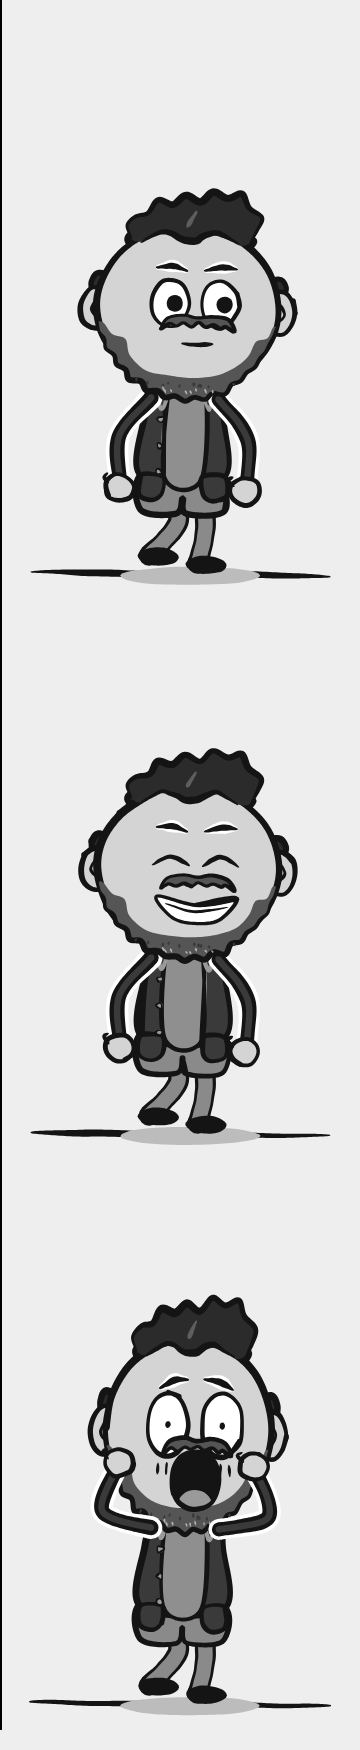
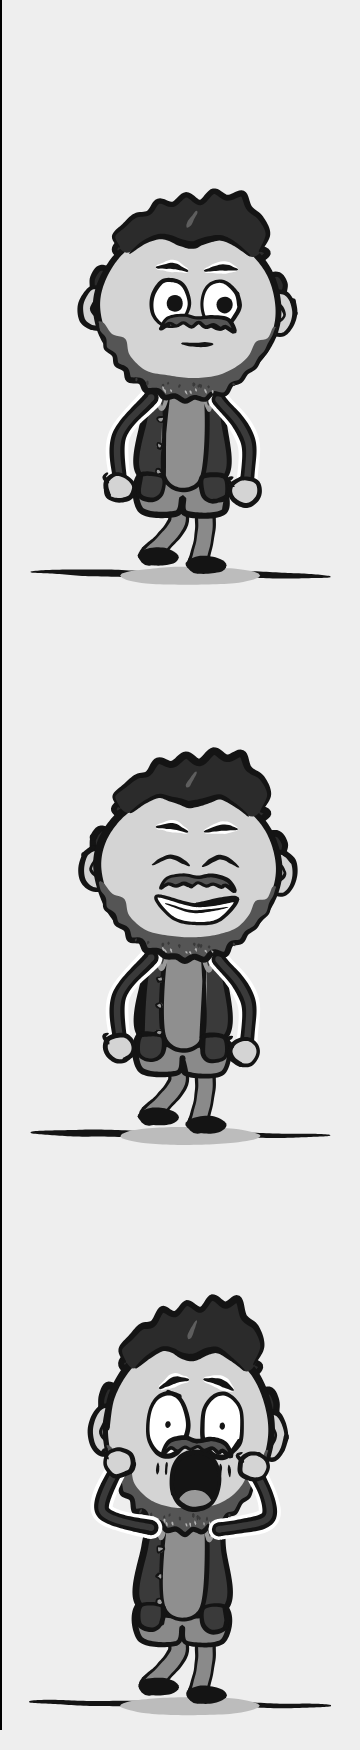
Squeex C: hairline between the last two versions
Wider crown so it no longer reads as a mohawk, smaller bare temple
corners and a shallower M. Only draft C's hair changed.

Claude-Session: https://claude.ai/code/session_01RKmGcx8q1V1rbfKyx6bNrn

diff --git a/web/cameos.js b/web/cameos.js
@@ -1123,10 +1123,11 @@ const Cameos = (() => {
   // dome behind the head). The ends start on that band, so only the curly top
   // and the hairline are inked and the crown never reads as a separate cap.
   // The hairline is an M: deep bare notches over each brow, a small rounded lobe in the middle.
-  const SQ_CROWN = [[-0.64, -0.84], [-0.7, -1.0], [-0.6, -1.12], [-0.46, -1.16], [-0.36, -1.32], [-0.2, -1.28], [-0.06, -1.4],
-                    [0.1, -1.32], [0.24, -1.46], [0.4, -1.38], [0.56, -1.44], [0.64, -1.26], [0.78, -1.14], [0.74, -0.98], [0.66, -0.82]];
-  const SQ_LINE_M = [[0.54, -0.8], [0.42, -0.88], [0.3, -0.94], [0.2, -0.92], [0.13, -0.88], [0.07, -0.84], [0, -0.83],
-                     [-0.07, -0.84], [-0.13, -0.88], [-0.2, -0.92], [-0.3, -0.94], [-0.42, -0.88], [-0.54, -0.8]];
+  const SQ_CROWN = [[-0.77, -0.72], [-0.84, -0.86], [-0.72, -1.0], [-0.6, -1.12], [-0.46, -1.16], [-0.36, -1.32], [-0.2, -1.28],
+                    [-0.06, -1.4], [0.1, -1.32], [0.24, -1.46], [0.4, -1.38], [0.56, -1.44], [0.64, -1.26], [0.78, -1.14],
+                    [0.86, -0.94], [0.77, -0.72]];
+  const SQ_LINE_M = [[0.66, -0.66], [0.5, -0.8], [0.34, -0.88], [0.22, -0.86], [0.12, -0.82], [0.05, -0.79], [0, -0.78],
+                     [-0.05, -0.79], [-0.12, -0.82], [-0.22, -0.86], [-0.34, -0.88], [-0.5, -0.8], [-0.66, -0.66]];
   const sqCrown = ctx => {
     fill(ctx, hu([...SQ_CROWN, ...SQ_LINE_M]), SQ_HAIR, 1);
     stroke(ctx, hu(SQ_CROWN), { w: 11, taper0: 0.3, taper1: 0.3 });   // the ends sit on the back band, outside the head outline
@@ -1137,7 +1138,7 @@ const Cameos = (() => {
   // down to the ears at the sides. It breaks at the temples, so bare skin
   // meets the head outline there.
   const sqBackHair = ctx => {
-    for (const [a0, a1] of [[0.97, 1.12], [1.28, 1.72], [1.88, 2.03]]) {
+    for (const [a0, a1] of [[0.97, 1.14], [1.22, 1.78], [1.86, 2.03]]) {
       const outer = [], inner = [], n = Math.round((a1 - a0) * 24);
       for (let i = 0; i <= n; i++) {
         const a = Math.PI * (a0 + (a1 - a0) * i / n), r = 1.07 + (i % 2 ? 0.035 : 0);   // a little curl in the edge
